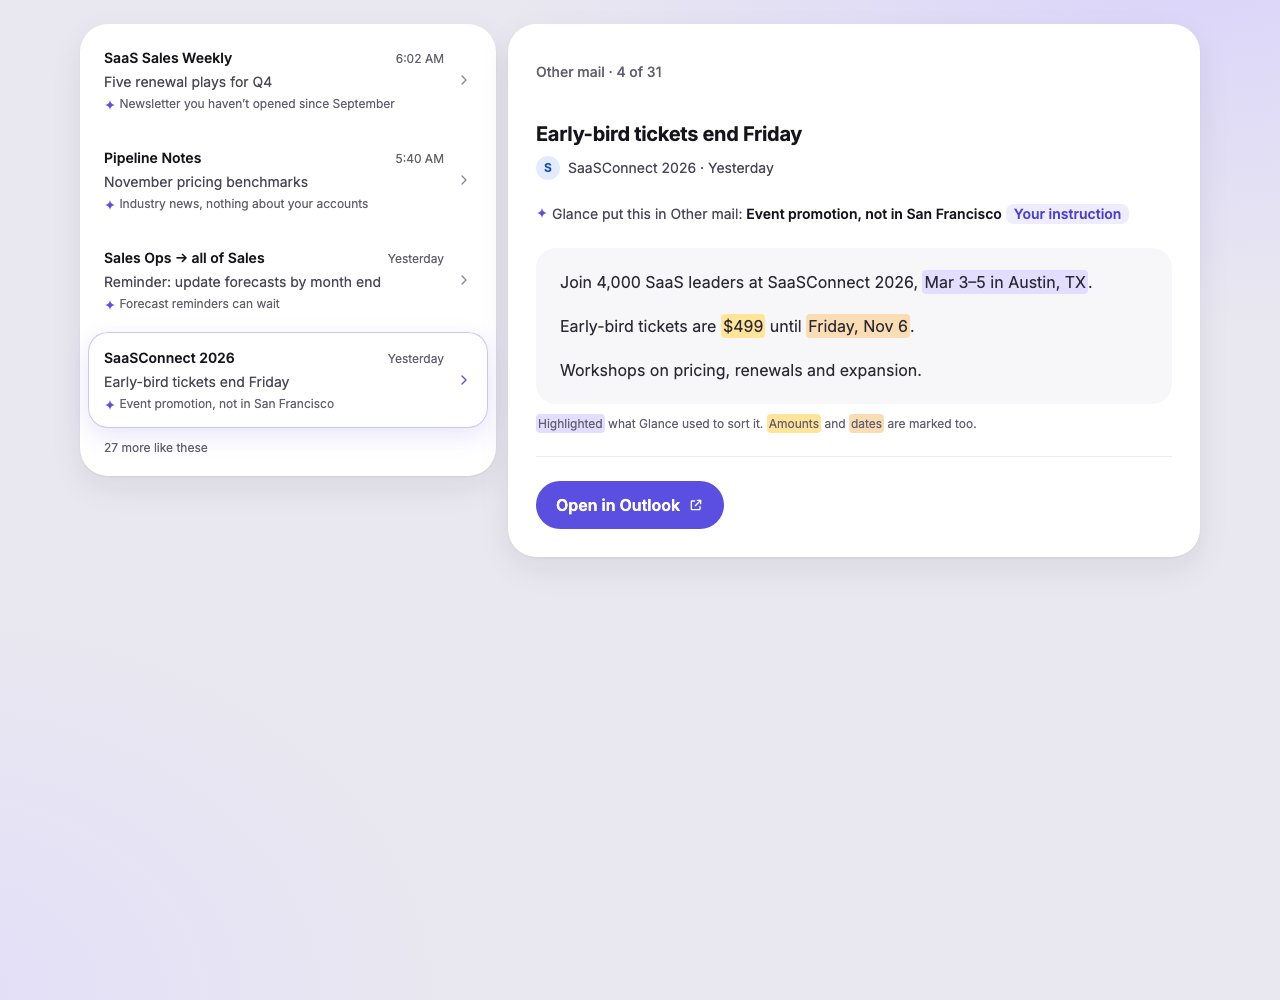
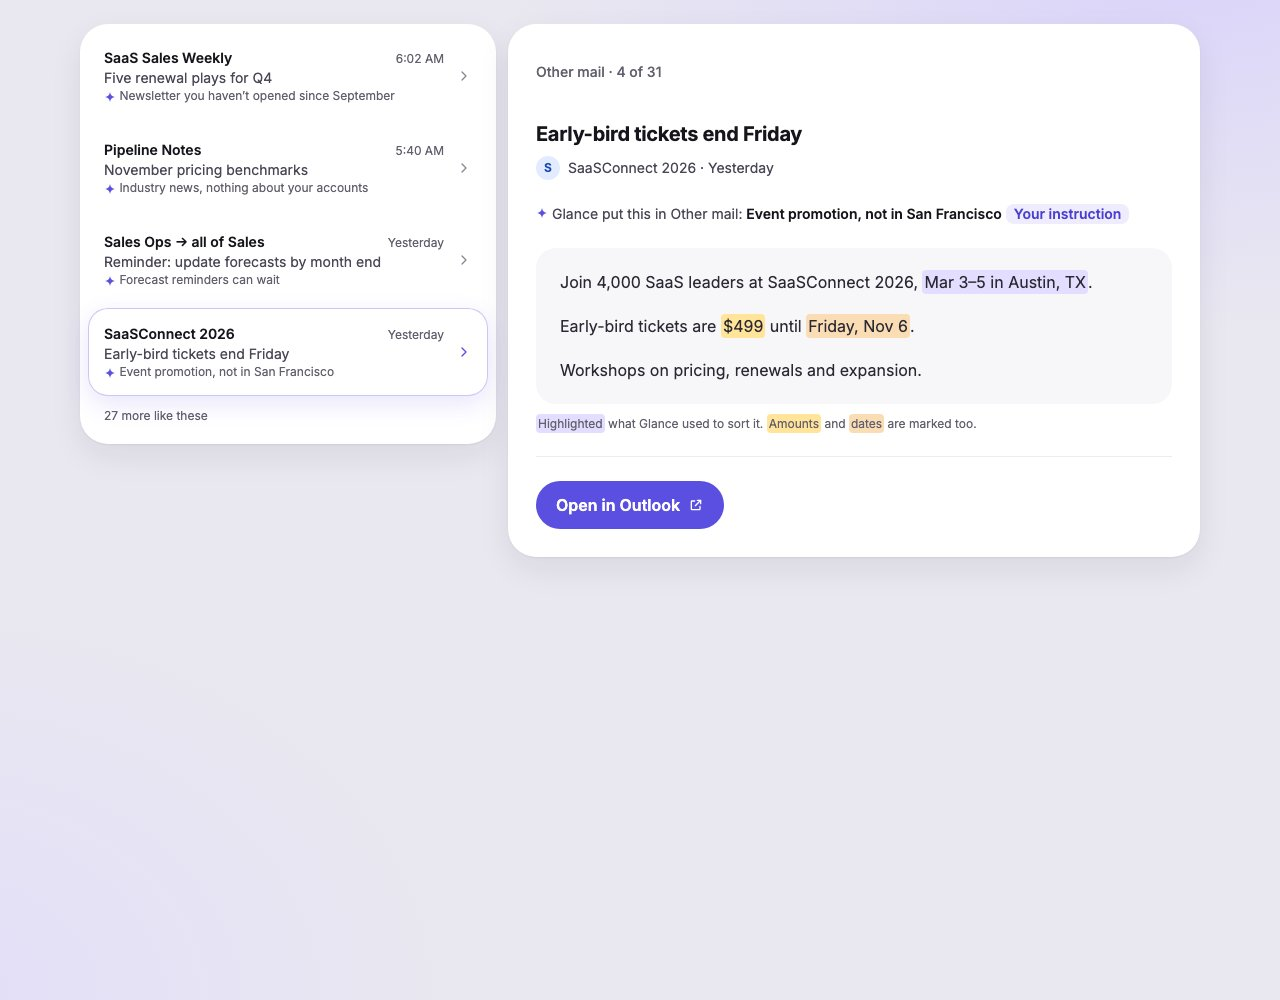
fix(ds): address row spacing and underline tab review

Changed region(s): [[0.0625, 0.062, 0.4062, 0.496], [0.3125, 0.31, 0.3438, 0.372], [0.3125, 0.124, 0.3438, 0.186]]

diff --git a/e2e/mail-details.spec.ts b/e2e/mail-details.spec.ts
@@ -1,4 +1,4 @@
-import { test, expect, type Page } from '@playwright/test';
+import { test, expect, type Page, type Locator } from '@playwright/test';
 import maya from '../src/data/maya.json' with { type: 'json' };
 async function story(page: Page, id: string, theme: string) {
   await page.goto(
@@ -28,6 +28,20 @@ async function story(page: Page, id: string, theme: string) {
     )
     .toBe('success');
   await expect(page.locator('.sb-errordisplay')).not.toBeVisible();
+}
+async function expectOtherMailSpacing(list: Locator) {
+  const gaps = await list
+    .getByRole('button')
+    .first()
+    .evaluate((button) => {
+      const lines = [...button.firstElementChild!.children].map((line) =>
+        line.getBoundingClientRect(),
+      );
+      return lines
+        .slice(1)
+        .map((line, index) => line.top - lines[index].bottom);
+    });
+  expect(gaps).toEqual([0, 0]);
 }
 const prefix = 'composites-mail-rows-and-details--';
 test('Heads-up rows expose real sources, reasoning, email, and account labels', async ({
@@ -70,6 +84,7 @@ test('Other mail renders only its actual highlight legend and remaining count', 
   await story(page, prefix + 'maya-other-mail', colorScheme!);
   const list = page.getByRole('list', { name: 'Other mail' });
   await expect(list.getByRole('listitem')).toHaveCount(4);
+  await expectOtherMailSpacing(list);
   await expect(page.getByText('27 more like these')).toBeVisible();
   for (const item of maya.otherMail.rows.filter((row) => !row.isNew)) {
     await list
@@ -112,6 +127,7 @@ test('Other mail renders only its actual highlight legend and remaining count', 
   );
   await page.keyboard.press('Escape');
   await expect(page.getByRole('dialog')).toHaveCount(0);
+  await expectOtherMailSpacing(page.getByRole('list', { name: 'Other mail' }));
 });
 test('Moved rows and details preserve origin content across all destinations', async ({
   page,
@@ -142,4 +158,63 @@ test('Moved rows and details preserve origin content across all destinations', a
   await expect(
     page.getByRole('heading', { name: 'Nothing else needs you today' }),
   ).toBeVisible();
+});
+
+test('Underline tabs change only unselected text on hover and press', async ({
+  page,
+  colorScheme,
+}) => {
+  for (const width of [1280, 390]) {
+    await page.setViewportSize({ width, height: 844 });
+    await story(page, 'primitives-segmentedcontrol--underline', colorScheme!);
+    const selected = page.getByRole('tab', { name: 'Details', exact: true });
+    const unselected = page.getByRole('tab', { name: 'Ask', exact: true });
+    const appearance = (tab: Locator) =>
+      tab.evaluate((node) => {
+        const style = getComputedStyle(node);
+        return {
+          color: style.color,
+          fill: style.backgroundColor,
+          shadow: style.boxShadow,
+        };
+      });
+    const selectedDefault = await appearance(selected);
+    const unselectedDefault = await appearance(unselected);
+    expect(unselectedDefault.color).not.toBe(selectedDefault.color);
+    for (const tab of [unselected, selected]) {
+      await tab.hover();
+      await expect(tab).toHaveCSS('color', selectedDefault.color);
+      await expect(tab).toHaveCSS('background-color', 'rgba(0, 0, 0, 0)');
+      await page.mouse.down();
+      await expect(tab).toHaveCSS('color', selectedDefault.color);
+      await expect(tab).toHaveCSS('background-color', 'rgba(0, 0, 0, 0)');
+      if (tab === selected)
+        expect(await appearance(tab)).toEqual(selectedDefault);
+      else await expect(tab).toHaveCSS('box-shadow', 'none');
+      await page.mouse.move(0, 0);
+      await page.mouse.up();
+    }
+    await expect(selected).toHaveAttribute('aria-selected', 'true');
+    await expect(unselected).toHaveCSS('color', unselectedDefault.color);
+    for (const state of [
+      'hover',
+      'pressed',
+      'selected-hover',
+      'selected-pressed',
+    ]) {
+      await story(
+        page,
+        'primitives-segmentedcontrol--underline-' + state,
+        colorScheme!,
+      );
+      const tab = page.getByRole('tab', {
+        name: state.startsWith('selected') ? 'Details' : 'Ask',
+        exact: true,
+      });
+      await expect(tab).toHaveCSS('color', selectedDefault.color);
+      await expect(tab).toHaveCSS('background-color', 'rgba(0, 0, 0, 0)');
+      if (state.startsWith('selected'))
+        expect(await appearance(tab)).toEqual(selectedDefault);
+    }
+  }
 });

diff --git a/src/design-system/components/MailRows/MailExamples.tsx b/src/design-system/components/MailRows/MailExamples.tsx
@@ -61,7 +61,8 @@ export function MailExample({
         : { kind, item: persona.items.filter((item) => !item.isNew)[selected] };
   const accountId = 'account' in item ? item.account : undefined;
   const account =
-    persona.accounts.find((a) => a.id === accountId) ?? persona.accounts[0];
+    persona.accounts.find((a) => a.id === accountId) ??
+    persona.accounts.find((a) => !a.minority)!;
   const watchId = 'watch' in item ? item.watch : undefined;
   const watchItem = persona.watchlist.find((entry) => entry.id === watchId);
   const common = {

diff --git a/src/design-system/components/SegmentedControl/SegmentedControl.stories.tsx b/src/design-system/components/SegmentedControl/SegmentedControl.stories.tsx
@@ -133,3 +133,13 @@ export const UnderlineFocus: Story = {
   ...FocusAdjacentHover,
   args: { appearance: 'underline' },
 };
+export const UnderlineHover: Story = { ...Hover, args: Underline.args };
+export const UnderlinePressed: Story = { ...Pressed, args: Underline.args };
+export const UnderlineSelectedHover: Story = {
+  ...SelectedHover,
+  args: Underline.args,
+};
+export const UnderlineSelectedPressed: Story = {
+  ...SelectedPressed,
+  args: Underline.args,
+};

diff --git a/src/design-system/components/OtherMailRow/OtherMailRow.tsx b/src/design-system/components/OtherMailRow/OtherMailRow.tsx
@@ -29,7 +29,7 @@ export function OtherMailRow({
         aria-pressed={selected}
         onClick={(event) => onSelect(item.id, event.currentTarget)}
       >
-        <span className={styles.content}>
+        <span className={[styles.content, styles.otherContent].join(' ')}>
           <span className={styles.heading}>
             <span className={styles.sender}>
               {moved ? item.title : item.sender}

diff --git a/src/design-system/components/SegmentedControl/SegmentedControl.module.css b/src/design-system/components/SegmentedControl/SegmentedControl.module.css
@@ -57,8 +57,8 @@
   --control-ink: var(--color-text-secondary);
   --hover-fill: transparent;
   --pressed-fill: transparent;
-  --hover-ink: var(--color-text-secondary);
-  --pressed-ink: var(--color-text-secondary);
+  --hover-ink: var(--color-text);
+  --pressed-ink: var(--color-text);
   min-block-size: var(--size-touch);
   padding: 0;
   border-radius: 0;

diff --git a/src/design-system/components/MailRows/MailRows.module.css b/src/design-system/components/MailRows/MailRows.module.css
@@ -38,6 +38,9 @@
   min-inline-size: 0;
   gap: var(--space-4);
 }
+.otherContent {
+  gap: 0;
+}
 .text {
   color: var(--color-text-secondary);
   font-size: var(--font-size-14);

diff --git a/docs/reviews/25-rows-and-details/README.md b/docs/reviews/25-rows-and-details/README.md
@@ -18,6 +18,20 @@ Desktop viewport: 1280 × 1000. Phone viewport: 390 × 844. Both themes and redu
 
 The new row/detail variants have no previous implementation. Compare them with [heads-up](../../screens/v2/heads-up.png), [other-mail](../../screens/v2/other-mail.png), [Daniel](../../screens/v2/daniel-heads-up.png), [phone detail](../../screens/v2/phone-sheet.png), [phone Other mail](../../screens/v2/phone-sheet-other-mail.png), and [dark Other mail](../../screens/v2/dark-other-mail.png). The previous phone Needs you appearance is available in [light](../21-shared-components/detail-phone-light.jpg) and [dark](../21-shared-components/detail-phone-dark.jpg).
 
+### PR #70 review updates
+
+OtherMailRow now has no gap between its sender/time, subject, and reason lines. HeadsUpRow and BriefRow retain their spacing. Compare the refreshed desktop screenshots with the previous [light](https://github.com/shuhaoshang/glance-mail/blob/211b4ded0ef53aefa2b21c166a188d36077a3e98/docs/reviews/25-rows-and-details/other-mail-desktop-light.jpg) and [dark](https://github.com/shuhaoshang/glance-mail/blob/211b4ded0ef53aefa2b21c166a188d36077a3e98/docs/reviews/25-rows-and-details/other-mail-desktop-dark.jpg) versions.
+
+| Review state | Light | Dark |
+| --- | --- | --- |
+| Phone Other mail list | [Light](other-mail-list-phone-light.jpg) | [Dark](other-mail-list-phone-dark.jpg) |
+| Unselected underline tab, hover | [Light](underline-hover-light.jpg) | [Dark](underline-hover-dark.jpg) |
+| Unselected underline tab, pressed | [Light](underline-pressed-light.jpg) | [Dark](underline-pressed-dark.jpg) |
+| Selected underline tab, hover | [Light](underline-selected-hover-light.jpg) | [Dark](underline-selected-hover-dark.jpg) |
+| Selected underline tab, pressed | [Light](underline-selected-pressed-light.jpg) | [Dark](underline-selected-pressed-dark.jpg) |
+
+The new state screenshots use a 390-wide viewport. Unselected hover and press use `--color-text` on transparent fill; selected tabs retain their text, weight, and underline.
+
 ## How to review
 
 - Composites/Mail rows and details: MayaHeadsUp, MayaSecond, Brightline, DanielPersonal, MayaOtherMail, Promotion, OriginalEmail, and JudgmentOnly use real data. Select any row. Heads-up rows contain no underlined fact or nested action.
@@ -25,7 +39,7 @@ The new row/detail variants have no previous implementation. Compare them with [
 - MovedMatrix shows the three source kinds in all three destinations. The moved detail examples retain the source kind, include the moved note, and omit the reasoning pill. The matrix documents rendering; actual moves remain task 27.
 - MailList/OtherMail shows four Maya rows and “27 more like these.” ZeroRemaining omits that line; Empty and the combined Empty example show the empty tabs and the existing AllDone content.
 - HeadsUpRow and OtherMailRow have separate default, selected, hover, pressed, selected hover/press, focus, and keyboard stories.
-- SegmentedControl/Underline, UnderlineKeyboard, and UnderlineFocus share the existing roles, roving tab stop, arrows, Home/End, and disabled-tab skipping. Phone details use this appearance. The Needs you deal fields use two phone columns.
+- SegmentedControl/Underline, UnderlineKeyboard, UnderlineFocus, UnderlineHover, UnderlinePressed, UnderlineSelectedHover, and UnderlineSelectedPressed share the existing roles, roving tab stop, arrows, Home/End, and disabled-tab skipping. Phone details use this appearance. The Needs you deal fields use two phone columns.
 
 ## Reuse and scope
 
@@ -38,12 +52,19 @@ MailList supplies the panel, optional Needs you progress head, remaining count, 
 ## Validation
 
 - App and Storybook builds, lint, formatting, data validation, and English checks pass.
-- All 76 Playwright checks pass in both themes and both motion preferences. The new checks cover exact sources, Brightline reasoning, tab keyboard behavior, Personal account labeling, conditional legends, remainder text, moved content, empty states, and phone focus return.
-- All 45 new or directly related Storybook stories pass at 1280 and 390 widths in both themes: 180 renders and interaction runs.
+- All 80 Playwright checks pass in both themes and both motion preferences. The new checks cover exact sources, Brightline reasoning, tab keyboard behavior, Personal account labeling, conditional legends, remainder text, moved content, empty states, and phone focus return. They also verify gapless OtherMailRow text and real hover/press behavior for underline tabs.
+- All 49 new or directly related Storybook stories pass at 1280 and 390 widths in both themes: 196 renders and interaction runs.
 - Tokens and persona JSON are unchanged. Existing sheet gestures and focus management remain in DetailSheet.
+
+## Review decisions
+
+Resolved in the [designer's PR #70 review](https://github.com/shuhaoshang/glance-mail/pull/70#issuecomment-6873878144):
+
+- Keep the existing two-column phone deal layout; the scene-card table now states this explicitly. Future specification differences will be listed under Open questions before implementation.
+- Underline tab hover and press follow the approved text-only treatment, documented in section 9.8 and demonstrated by four new state stories.
+- A Heads-up or Other mail email with no account belongs to the main account, the one not marked `minority`. Section 9.5 and the data model's Version 2 section record this rule. Storybook examples resolve that account; app callers will pass it in later tasks. No data fields were added.
+- Keep the conditional highlight legend, Open email, and the source date in Person as approved.
 
 ## Open questions
 
-1. Underline tabs have specified default, selected, and keyboard-focus states but no separate hover or pressed treatment. They currently retain those appearances. Proposal: on unselected hover/press, keep the transparent fill and use `--color-text` (light `#16151C`, dark `#F2F1F7`); selected tabs remain unchanged. Please confirm before adding this state.
-2. OtherMailRow data does not include an account id. DetailPanel requires an explicit account; the Maya examples use her single Outlook account. Before connecting mixed-inbox Other mail to the app, proposal: add an account id to each Other mail record so Open in {app} has a defined destination.
-3. Reference differences: dark-other-mail.png shows an Amounts legend entry even though that selected email only contains judgment and time highlights. The implementation follows the written rule and lists only present kinds. Heads-up keeps Open email under D60, and its Person line includes the source date required by section 9.5.
+None. The review resolved the previous questions.

diff --git a/docs/design-system.md b/docs/design-system.md
@@ -431,7 +431,7 @@ A scene card holds **only facts from the email**, laid out by the email's struct
 
 | Type        | Use when the email…                                   | Layout                                                                                     | Examples                                           |
 | ----------- | ----------------------------------------------------- | ------------------------------------------------------------------------------------------ | -------------------------------------------------- |
-| `deal`      | is about an account with a value, a date and a status | three Fields in a row (default size)                                                       | Maya · Fernway renewal; Halden new lead            |
+| `deal`      | is about an account with a value, a date and a status | three Fields in a row on desktop, two columns on the phone (default size)                                                       | Maya · Fernway renewal; Halden new lead            |
 | `decision`  | offers named options and asks you to choose           | two option tiles (key badge, title, small Field); one per row in the phone sheet                                           | Daniel · Checkout redesign                         |
 | `approval`  | asks you to approve an amount                         | large amount Field, then small Fields (for, requested by, deadline), then an optional note | Daniel · Expense report                            |
 | `payment`   | is a bill or fee                                      | large amount Field, then due and payee                                                     | Sarah · City Water                                 |
@@ -650,6 +650,7 @@ The tab remembers its selected row for the session. Opening a tab for the first 
 
 - **Top row:** position on the left (“Needs you · 1 of 3”, “Heads-up · 2 of 3”, “Other mail · 1 of 31”; 14/20 medium, muted) and the SegmentedControl on the right.
 - **SegmentedControl (changed):** track and sizes as built. Selected segment: `--color-ink` fill, `--color-on-ink` text, no shadow. A new `size="small"`: track padding 2, segments 24 tall, padding 4 8, 12/16 semibold; used for the theme control in the account menu on desktop.
+- **Account fallback:** a Heads-up or Other mail email without an `account` belongs to the persona's main account: the one not marked `minority`. The caller resolves and passes that account to DetailPanel; no data change is needed.
 - **Needs you detail:** as built (title, Person, AccountLabel, request, GlanceMark, hint line, SceneCard, SourcePanel, ReasonPill and ReasonPanel), with the action bar in 9.6.
 - **Heads-up detail:** tabs `Details` and `Original email`.
   - Details: title (20/28 semibold); Person line built from the source (“Lena Ortiz · Wed, Nov 4, 5:30 PM”) with AccountLabel when needed; GlanceMark with its label; `summary` as the headline (20/28 semibold); the SourcePanel for `fact.source`, always open, no close button; when the item has a `judgment`, a ReasonPill “Why it’s here: {label}” that opens the read and its source; when it has `watch`, “Part of **Watchlist: {name}**” (14/20, the name a brand text button that opens the Watchlist tab).
@@ -718,7 +719,7 @@ Messages:
 
 The sheet, its gestures, focus trap and closing rules stay as built (D44). Inside it:
 
-- First row: the position text and the close button. Below it the tabs become **underline tabs**: full-width row with a hairline along the bottom; each tab 16/24 medium, `--color-text-secondary`, 44 tall, 24 apart; the selected one is semibold `--color-text` with a 2 px `--color-brand` underline. Same roles and keys as SegmentedControl.
+- First row: the position text and the close button. Below it the tabs become **underline tabs**: full-width row with a hairline along the bottom; each tab 16/24 medium, `--color-text-secondary`, 44 tall, 24 apart; the selected one is semibold `--color-text` with a 2 px `--color-brand` underline. Unselected tabs use `--color-text` on hover and press, keeping the fill transparent. Selected tabs keep their appearance on hover and press. Same roles and keys as SegmentedControl.
 - Content as in 9.5 with 20 side padding; the scene card fields are two per row.
 - The action bar stays pinned to the bottom of the sheet as built, with the layout in 9.6.
 - Other mail and Heads-up emails open in the same sheet.

diff --git a/docs/data-model.md b/docs/data-model.md
@@ -149,6 +149,8 @@ interface Demo {
 
 The persona files move to `"version": 2`. The files and `types.ts` are provided by design in `docs/handoff/v2/provided/`.
 
+A Heads-up or Other mail email without an `account` belongs to the persona's main account: the account not marked `minority`. Resolve and pass this account to DetailPanel when wiring the app. No account fields need to be added to the supplied data.
+
 ```ts
 interface Persona {
   version: 2;
